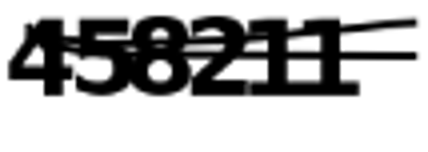
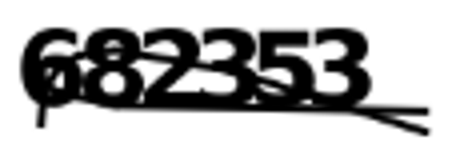
육부촌  update

diff --git a/OCR.py b/OCR.py
@@ -1,0 +1,47 @@
+from tkinter import *
+from Folder.kakao_01_api import *
+import pyautogui as pag
+import win32con
+import win32api
+import win32gui
+import keyboard
+import pyperclip
+import clipboard
+import schedule
+import requests
+import time
+import json
+import cv2
+import easyocr
+import cv2
+import multiprocessing as mp
+import threading
+from PIL import Image
+reader = easyocr.Reader(['en'], gpu=True)
+
+input_image_path = '제목 없음1.png'  # 확대할 스크린샷 파일 경로
+output_image_path = '제목 없음.png'  # 저장할 파일 경로
+
+# 이미지 열기
+image = Image.open(input_image_path)
+
+# 이미지 크기 가져오기
+width, height = image.size
+
+# 이미지 2배 확대
+enlarged_image = image.resize((width * 4, height * 4))
+
+# 확대된 이미지 저장
+enlarged_image.save(output_image_path)
+
+print(f"이미지가 {output_image_path}에 저장되었습니다.")
+
+file = r"제목 없음.png"
+# reader = easyocr.Reader(['en'], gpu=True)
+img = cv2.imread(file)
+text = reader.readtext(img, detail=0)
+print(text)
+input_text = str(text)
+input_text1 = input_text[2:8]   
+print(input_text1) 
+pyperclip.copy(input_text1)

diff --git a/Camp_51_육부촌.py b/Camp_51_육부촌.py
@@ -19,7 +19,7 @@ import threading
 from PIL import Image
 reader = easyocr.Reader(['en'], gpu=True)
 
-#육부촌 Test 2023.11.17 #Viewer Size 50% #화면 맨아래로 통일 / 일반
+#육부촌 Test 2023.11.17 #Viewer Size 67% #화면 맨아래로 통일 / 일반
 
 
 # 변수 설정
@@ -478,9 +478,9 @@ def 육부촌_자동입력방지1_AI():
       pag.click(1029,742)
       time.sleep(0.2)
       #자동입력방지
-      pag.click(976,400)
+      pag.click(988,378)
       print("자동방지입력")
-      im1 =  pag.screenshot('captcha1.png', region=(790 , 386 , 107 , 38))
+      im1 =  pag.screenshot('captcha1.png', region=(787 , 362 , 113 , 38))
       #im1 =  pag.screenshot('captcha1.png', region=(834 , 788 , 69 , 22))
       #im1 =  pag.screenshot('captcha.png', region=(727,281,200,70))
       #file = r"C:\Users\LinkTech\Documents\Visual Studio Code\Test\captcha.png"
@@ -512,7 +512,7 @@ def 육부촌_자동입력방지1_AI():
       print(input_text1) 
       pyperclip.copy(input_text1)
       time.sleep(0.1)
-      pag.hotkey('ctrl','v')
+      pag.write(input_text1)
       time.sleep(0.1)
       pag.hotkey('enter')
       time.sleep(500)

diff --git a/로블록스.py b/로블록스.py
@@ -1,0 +1,40 @@
+import pyautogui
+import keyboard
+import time
+import threading
+
+# 종료 플래그
+running = True
+
+def click_continuously():
+    while running:
+        pyautogui.click(500, 500)
+        time.sleep(0.1)  # 클릭 간격을 조정할 수 있습니다.
+
+def press_e_key():
+    while running:
+        time.sleep(1)  # 300초 대기
+        if running:  # 종료 플래그 확인
+            keyboard.press('e')  # 'e' 키 누르기
+            time.sleep(5)  # 3초 동안 누르고 있음
+            keyboard.release('e')  # 'e' 키 떼기
+        time.sleep(1)  # 300초 대기
+
+def stop_program():
+    global running
+    running = False
+
+# F2 키가 눌리면 프로그램 종료
+keyboard.add_hotkey('F2', stop_program)
+
+# 스레드 생성
+click_thread = threading.Thread(target=click_continuously)
+press_thread = threading.Thread(target=press_e_key)
+
+# 스레드 시작
+click_thread.start()
+press_thread.start()
+
+# 메인 스레드가 종료되지 않도록 대기
+click_thread.join()
+press_thread.join()

diff --git a/Camp.py b/Camp.py
@@ -546,7 +546,7 @@ lable1.place(x=0, y=110)
 
 entry_육부촌 = Entry(frame6, width=25, borderwidth=2 , font = ("", 10))
 entry_육부촌.place(x=50, y=110)
-entry_육부촌.insert(0,"2024-12-07",)
+entry_육부촌.insert(0,"2025-06-28",)
 #entry_육부촌.insert(0,"https://www.gyeongju.go.kr/hwarang/page.do?mnu_uid=3516&csr_date=2024-02-28&cs_uid=29&csr_numday=1&step=write&initYear=2024&initMonth=2&currentDay=",)
 
 def 육부촌_Url_Input():
